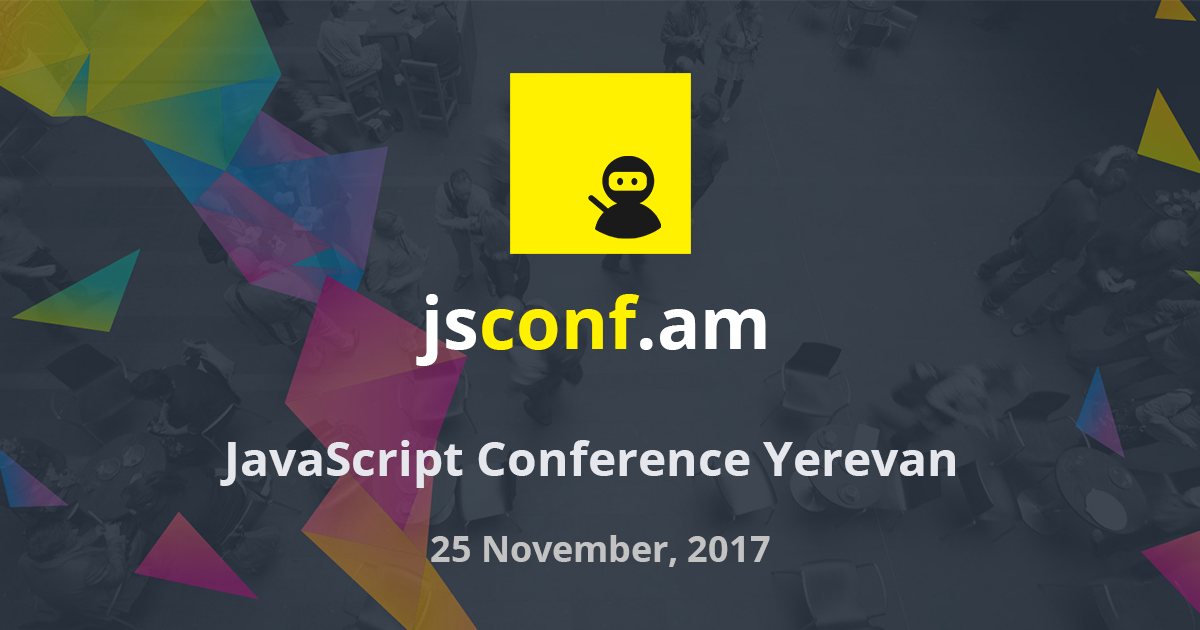
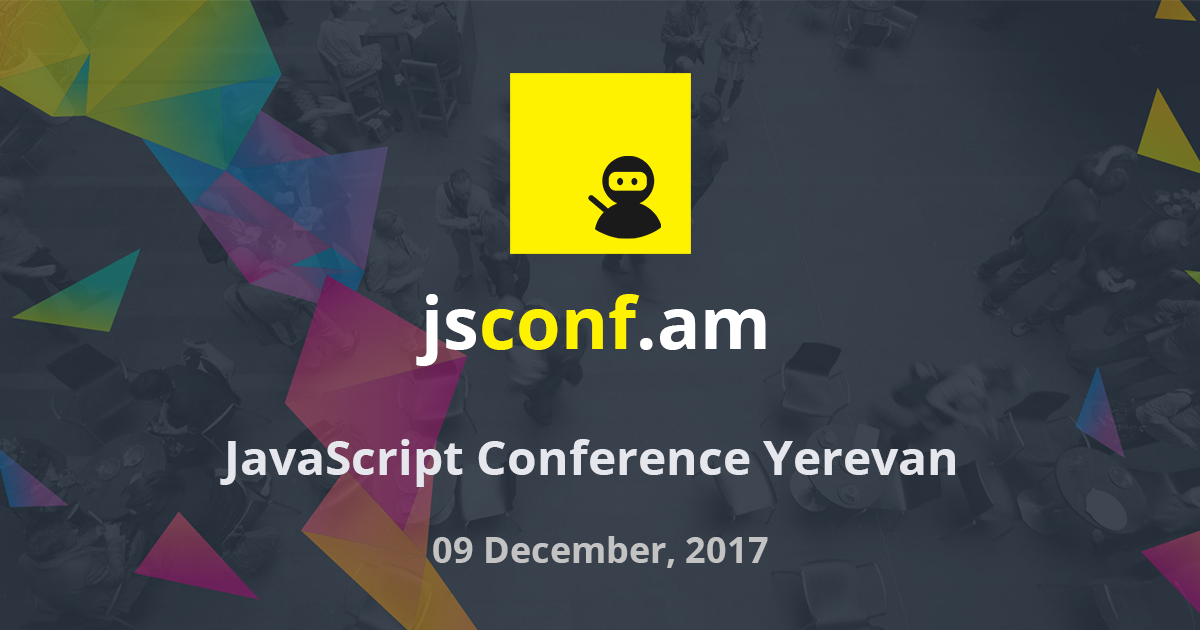
Updates
Webstie: Location
Countdown Timer change date
Fix Tigran Bayburtsyan pic
Divided sponsers and friends
Website: Og:Image

diff --git a/src/Sponsors/Sponsors.vue b/src/Sponsors/Sponsors.vue
@@ -2,13 +2,18 @@
   <section class="Sponsors" id="Sponsors">
     <div class="Container">
 
-      <h3 class="Title">Sponsors and friends</h3>
+      <h3 class="Title">Sponsors</h3>
 
       <div class="CallToAction">
         <a href="mailto:jsconf.am@gmail.com" class="Button -green">
           Become a sponsor
         </a>
       </div>
+
+      <div class="Divider">
+      </div>
+
+      <h1 class="Title -secondary">Partners and friends</h1>
 
       <div class="row justify-content-center justify-content-xl-between">
 
@@ -72,6 +77,7 @@
 export default {
 
 };
+
 </script>
 
 <style scoped>
@@ -85,6 +91,7 @@ export default {
 
 .CallToAction {
   text-align: center;
+  padding-bottom: 40px;
 }
 
 .Img {
@@ -96,10 +103,19 @@ export default {
   margin: 0 auto;
 }
 
+.Divider {
+  border-bottom: 1px solid rgba(141, 198, 63, 0.5);
+  margin-bottom: 20px;
+}
+
 .Title {
   color: #92278f;
   text-align: center;
-  padding-bottom: 10px;
+}
+
+.-secondary {
+  font-size: 26px;
+  font-weight: 600;
 }
 
 .OrgName {
@@ -118,10 +134,13 @@ a {
 }
 
 @media (max-width: 768px) {
+
   .Img {
     width: 120px;
     height: 100px;
   }
+
 }
+
 </style>
 

diff --git a/src/Speakers/Speakers.vue b/src/Speakers/Speakers.vue
@@ -15,6 +15,12 @@
         </div>
 
         <div class="col-sm-6 col-md-4 col-lg-3">
+          <div class="Img -Tigran"></div>
+          <h3 class="Name">Tigran Bayburtsyan</h3>
+          <h5 class="Position">Founder at TreeScale.com</h5>
+        </div>
+
+        <div class="col-sm-6 col-md-4 col-lg-3">
           <a href="mailto:jsconf.am@gmail.com">
             <div class="Img -blank"></div>
             <h3 class="Name">Your Name</h3>
@@ -75,11 +81,6 @@ export default {
           name: 'Vardan Grigoryan',
           position: 'Backend Engineer at Helpin',
         },
-        {
-          img: 'https://scontent.fevn1-2.fna.fbcdn.net/v/t35.0-12/22547115_1927228967302235_934194398_o.jpg?oh=6ec68f5173ea9ba3af45a01c381d92a0&oe=59E6A65B',
-          name: 'Tigran Bayburtsyan',
-          position: 'Founder at TreeScale.com',
-        },
       ],
 
     };
@@ -132,4 +133,9 @@ h3:hover {
 .Img.-blank {
   background-image: url(../_assets/NINJA1.png);
 }
+
+.Img.-Tigran {
+  background-image: url(../_assets/TigranBayburtsyan.jpg);
+}
+
 </style>

diff --git a/src/Location/Location.vue b/src/Location/Location.vue
@@ -2,7 +2,8 @@
   <section class="Location" id="Location">
     <iframe
       class="Map"
-      src="https://www.google.com/maps/embed?pb=!1m18!1m12!1m3!1d3048.1640706992257!2d44.52429321526298!3d40.18316197939297!2m3!1f0!2f0!3f0!3m2!1i1024!2i768!4f13.1!3m3!1m2!1s0x406abd4e4c4a93a9%3A0xb1a196eecbc8204e!2sInnovative+Solutions+and+Technologies+Center+(ISTC)!5e0!3m2!1sen!2s!4v1506956160551" height="450" frameborder="0" style="border:0" allowfullscreen></iframe>
+      src="https://www.google.com/maps/embed?pb=!1m18!1m12!1m3!1d12191.027769150662!2d44.504405399999996!3d40.192222300000005!2m3!1f0!2f0!3f0!3m2!1i1024!2i768!4f13.1!3m3!1m2!1s0x406abd173fd4d621%3A0x213beef7d45c07c5!2z1YDVodW11aHVvdW_1aHVttWrINSx1bTVpdaA1avVr9W11aHVtiDVgNWh1bTVodWs1b3VodaA1aHVtg!5e0!3m2!1sen!2s!4v1508779141495" height="450" frameborder="0" style="border:0" allowfullscreen>
+    </iframe>
 
   </section>
 </template>

diff --git a/src/Header/Header.vue b/src/Header/Header.vue
@@ -14,9 +14,9 @@
         <a href="#Team" class="NavLink" v-smooth-scroll="navConfig" v-on:click="close">TEAM</a>
         <a href="#Location" class="NavLink" v-smooth-scroll="navConfig" v-on:click="close">LOCATION</a>
         <a
-        class="InviteBtn"
-        href="https://goo.gl/forms/QWQzhSb7HqNn2Hem2">
-        Request an invite
+          class="InviteBtn"
+          href="https://goo.gl/forms/QWQzhSb7HqNn2Hem2">
+          Request an invite
         </a>
         <!-- <a href="#">CONTACT</a> -->
       </nav>
@@ -206,6 +206,7 @@ export default {
   .InviteBtn {
     text-align: center;
     margin-top: 10px;
+    margin-left: 0;
   }
 
 }

diff --git a/src/App.vue b/src/App.vue
@@ -83,7 +83,6 @@ a:hover {
   background: #ccc;
   border-radius: 4px;
   font-weight: 500;
-  margin: 0px 20px 20px 0px;
   padding: 15px 30px;
   display: inline-block;
   text-decoration: none;
@@ -114,7 +113,5 @@ a:hover {
   text-decoration: none;
   color: #fff;
 }
-
-
 
 </style>

diff --git a/src/Intro/Intro.vue b/src/Intro/Intro.vue
@@ -5,7 +5,7 @@
 
         <div class="IntroGroup">
 
-          <Countdown date="1511589600" />
+          <Countdown date="1512799200" />
           <h1>JavaScript Conference 2017</h1>
           <h2>25 NOVEMBER, 2017, YEREVAN</h2>
 
